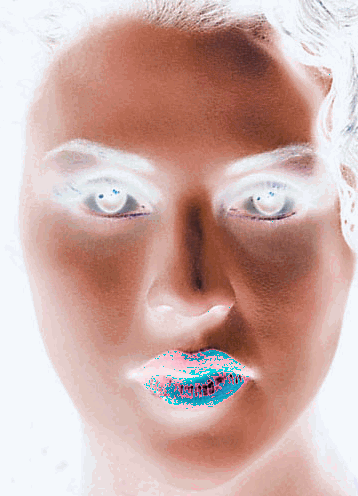
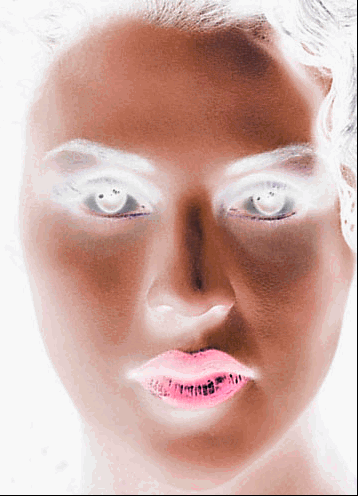
arrumando conversao

Changed region(s): [[0.0, 0.0, 1.0, 1.0], [0.3994, 0.6956, 0.676, 0.8165], [0.3073, 0.3629, 0.338, 0.3931]]

diff --git a/Q4/helper.py b/Q4/helper.py
@@ -1,20 +1,51 @@
 import numpy as np
 
-def transformRGB2YIQ(imgRGB: np.ndarray) -> np.ndarray:
-    yiq_from_rgb = np.array([[0.299, 0.587, 0.114],
-                             [0.59590059, -0.27455667, -0.32134392],
-                             [0.21153661, -0.52273617, 0.31119955]])
-    OrigShape=imgRGB.shape
-    return np.dot(imgRGB.reshape(-1,3), yiq_from_rgb.transpose()).reshape(OrigShape)
+def transformRGB2YIQ(imgRGB):
+    h, w, c = imgRGB.shape
+    i = j = 0
+    m = 3
+    
+    resultado_final = np.zeros(imgRGB.shape, dtype='uint8')
 
-    pass
+    for i in range(i, h-1, 1):
+        for j in range(j, w-1, 1):
+            y = (imgRGB[i, j, 0]*0.299) + (imgRGB[i, j, 1]*0.587) + (imgRGB[i, j, 2]*0.114)
+            I = (imgRGB[i, j, 0]*0.59590059) + (imgRGB[i, j, 1]*-0.27455667) + (imgRGB[i, j, 2]*-0.32134392)
+            q = (imgRGB[i, j, 0]*0.21153661) + (imgRGB[i, j, 1]*-0.52273617) + (imgRGB[i, j, 2]*0.31119955)
+            y = validacao(y)
+            I = validacao(I)
+            q = validacao(q)
+            resultado_final[i, j] = [y, I, q]
+        j = 0
+
+    return resultado_final
 
 
-def transformYIQ2RGB(imgYIQ: np.ndarray) -> np.ndarray:
-    yiq_from_rgb = np.array([[0.299, 0.587, 0.114],
-                             [0.59590059, -0.27455667, -0.32134392],
-                             [0.21153661, -0.52273617, 0.31119955]])
-    OrigShape=imgYIQ.shape
-    return np.dot(imgYIQ.reshape(-1,3), np.linalg.inv(yiq_from_rgb).transpose()).reshape(OrigShape)
 
-    pass
+def transformYIQ2RGB(imgYIQ):
+    h, w, c = imgYIQ.shape
+    i = j = 0
+    m = 3
+
+    resultado_final = np.zeros(imgYIQ.shape, dtype='uint8')
+
+    for i in range(i, h-1, 1):
+        for j in range(j, w-1, 1):
+            r = (imgYIQ[i, j, 0]*1) + (imgYIQ[i, j, 1]*0.956) + (imgYIQ[i, j, 2]*0.619)
+            g = (imgYIQ[i, j, 0]*1) + (imgYIQ[i, j, 1]*-0.272) + (imgYIQ[i, j, 2]*-0.647)
+            b = (imgYIQ[i, j, 0]*1) + (imgYIQ[i, j, 1]*-1.106) + (imgYIQ[i, j, 2]*1.703)
+            r = validacao(r)
+            g = validacao(g)
+            b = validacao(b)
+            resultado_final[i, j] = [r, g, b]
+        j = 0
+
+    return resultado_final
+
+def validacao(a):
+    if(a < 0):
+        a = 0
+    elif(a > 255):
+        a = 255
+         
+    return a

diff --git a/Q1/helper.py b/Q1/helper.py
@@ -1,20 +1,51 @@
 import numpy as np
 
-def transformRGB2YIQ(imgRGB: np.ndarray) -> np.ndarray:
-    yiq_from_rgb = np.array([[0.299, 0.587, 0.114],
-                             [0.59590059, -0.27455667, -0.32134392],
-                             [0.21153661, -0.52273617, 0.31119955]])
-    OrigShape=imgRGB.shape
-    return np.dot(imgRGB.reshape(-1,3), yiq_from_rgb.transpose()).reshape(OrigShape)
+def transformRGB2YIQ(imgRGB):
+    h, w, c = imgRGB.shape
+    i = j = 0
+    m = 3
 
-    pass
+    resultado_final = np.zeros(imgRGB.shape, dtype='uint8')
+
+    for i in range(i, h-1, 1):
+        for j in range(j, w-1, 1):
+            y = (imgRGB[i, j, 0]*0.299) + (imgRGB[i, j, 1]*0.587) + (imgRGB[i, j, 2]*0.114)
+            I = (imgRGB[i, j, 0]*0.59590059) + (imgRGB[i, j, 1]*-0.27455667) + (imgRGB[i, j, 2]*-0.32134392)
+            q = (imgRGB[i, j, 0]*0.21153661) + (imgRGB[i, j, 1]*-0.52273617) + (imgRGB[i, j, 2]*0.31119955)
+            y = validacao(y)
+            I = validacao(I)
+            q = validacao(q)
+            resultado_final[i, j] = [y, I, q]
+        j = 0
+
+    return resultado_final
 
 
-def transformYIQ2RGB(imgYIQ: np.ndarray) -> np.ndarray:
-    yiq_from_rgb = np.array([[0.299, 0.587, 0.114],
-                             [0.59590059, -0.27455667, -0.32134392],
-                             [0.21153661, -0.52273617, 0.31119955]])
-    OrigShape=imgYIQ.shape
-    return np.dot(imgYIQ.reshape(-1,3), np.linalg.inv(yiq_from_rgb).transpose()).reshape(OrigShape)
 
-    pass
+def transformYIQ2RGB(imgYIQ):
+    h, w, c = imgYIQ.shape
+    i = j = 0
+    m = 3
+
+    resultado_final = np.zeros(imgYIQ.shape, dtype='uint8')
+
+    for i in range(i, h-1, 1):
+        for j in range(j, w-1, 1):
+            r = (imgYIQ[i, j, 0]*1) + (imgYIQ[i, j, 1]*0.956) + (imgYIQ[i, j, 2]*0.619)
+            g = (imgYIQ[i, j, 0]*1) + (imgYIQ[i, j, 1]*-0.272) + (imgYIQ[i, j, 2]*-0.647)
+            b = (imgYIQ[i, j, 0]*1) + (imgYIQ[i, j, 1]*-1.106) + (imgYIQ[i, j, 2]*1.703)
+            r = validacao(r)
+            g = validacao(g)
+            b = validacao(b)
+            resultado_final[i, j] = [r, g, b]
+        j = 0
+
+    return resultado_final
+
+def validacao(a):
+    if(a < 0):
+        a = 0
+    elif(a > 255):
+        a = 255
+         
+    return a

diff --git a/Q2/helper.py b/Q2/helper.py
@@ -1,20 +1,51 @@
 import numpy as np
 
-def transformRGB2YIQ(imgRGB: np.ndarray) -> np.ndarray:
-    yiq_from_rgb = np.array([[0.299, 0.587, 0.114],
-                             [0.59590059, -0.27455667, -0.32134392],
-                             [0.21153661, -0.52273617, 0.31119955]])
-    OrigShape=imgRGB.shape
-    return np.dot(imgRGB.reshape(-1,3), yiq_from_rgb.transpose()).reshape(OrigShape)
+def transformRGB2YIQ(imgRGB):
+    h, w, c = imgRGB.shape
+    i = j = 0
+    m = 3
 
-    pass
+    resultado_final = np.zeros(imgRGB.shape, dtype='uint8')
+
+    for i in range(i, h-1, 1):
+        for j in range(j, w-1, 1):
+            y = (imgRGB[i, j, 0]*0.299) + (imgRGB[i, j, 1]*0.587) + (imgRGB[i, j, 2]*0.114)
+            I = (imgRGB[i, j, 0]*0.59590059) + (imgRGB[i, j, 1]*-0.27455667) + (imgRGB[i, j, 2]*-0.32134392)
+            q = (imgRGB[i, j, 0]*0.21153661) + (imgRGB[i, j, 1]*-0.52273617) + (imgRGB[i, j, 2]*0.31119955)
+            y = validacao(y)
+            I = validacao(I)
+            q = validacao(q)
+            resultado_final[i, j] = [y, I, q]
+        j = 0
+
+    return resultado_final
 
 
-def transformYIQ2RGB(imgYIQ: np.ndarray) -> np.ndarray:
-    yiq_from_rgb = np.array([[0.299, 0.587, 0.114],
-                             [0.59590059, -0.27455667, -0.32134392],
-                             [0.21153661, -0.52273617, 0.31119955]])
-    OrigShape=imgYIQ.shape
-    return np.dot(imgYIQ.reshape(-1,3), np.linalg.inv(yiq_from_rgb).transpose()).reshape(OrigShape)
 
-    pass
+def transformYIQ2RGB(imgYIQ):
+    h, w, c = imgYIQ.shape
+    i = j = 0
+    m = 3
+
+    resultado_final = np.zeros(imgYIQ.shape, dtype='uint8')
+
+    for i in range(i, h-1, 1):
+        for j in range(j, w-1, 1):
+            r = (imgYIQ[i, j, 0]*1) + (imgYIQ[i, j, 1]*0.956) + (imgYIQ[i, j, 2]*0.619)
+            g = (imgYIQ[i, j, 0]*1) + (imgYIQ[i, j, 1]*-0.272) + (imgYIQ[i, j, 2]*-0.647)
+            b = (imgYIQ[i, j, 0]*1) + (imgYIQ[i, j, 1]*-1.106) + (imgYIQ[i, j, 2]*1.703)
+            r = validacao(r)
+            g = validacao(g)
+            b = validacao(b)
+            resultado_final[i, j] = [r, g, b]
+        j = 0
+
+    return resultado_final
+
+def validacao(a):
+    if(a < 0):
+        a = 0
+    elif(a > 255):
+        a = 255
+         
+    return a

diff --git a/Q2/main.py b/Q2/main.py
@@ -20,21 +20,23 @@ for w in range(im_width):
         alpha = 1
         output_im.putpixel((w, h), (output_r, output_g, output_b, alpha))
 
-output_im.save("./Q2/rgb_negative.png")
+output_im.save("rgb_negative.png")
 
 
 a = np.array(rgb_im)
 
 img_yiq = transformRGB2YIQ(a)
 
+#print(img_yiq.shape)
+
 for w in range(img_yiq.shape[0]):
     for h in range(img_yiq.shape[1]):
         y, i, q = img_yiq[w,h]
-        
-        img_yiq[w,h] = [255 - y, i, q]
+      
+        img_yiq[w,h] = [255-y, i, q]
         
         # output_im.putpixel((w, h), (output_r, output_g, output_b, alpha))
 
 imageRGB = Image.fromarray(transformYIQ2RGB(img_yiq).astype(np.uint8))
 
-imageRGB.save("./Q2/yiq_negative.png")
+imageRGB.save("yiq_negative.png")

diff --git a/Q1/main.py b/Q1/main.py
@@ -10,5 +10,7 @@ a = np.array(im)
 
 imageYIQ = transformRGB2YIQ(a)
 imageRGB = Image.fromarray(transformYIQ2RGB(imageYIQ).astype(np.uint8))
+imageYIQ = Image.fromarray(imageYIQ.astype(np.uint8))
 
-imageRGB.save("./Q1/Woman_yiq_back_to_rgb.png")
+imageYIQ.save("Woman_yiq.png")
+imageRGB.save("Woman_yiq_back_to_rgb.png")
